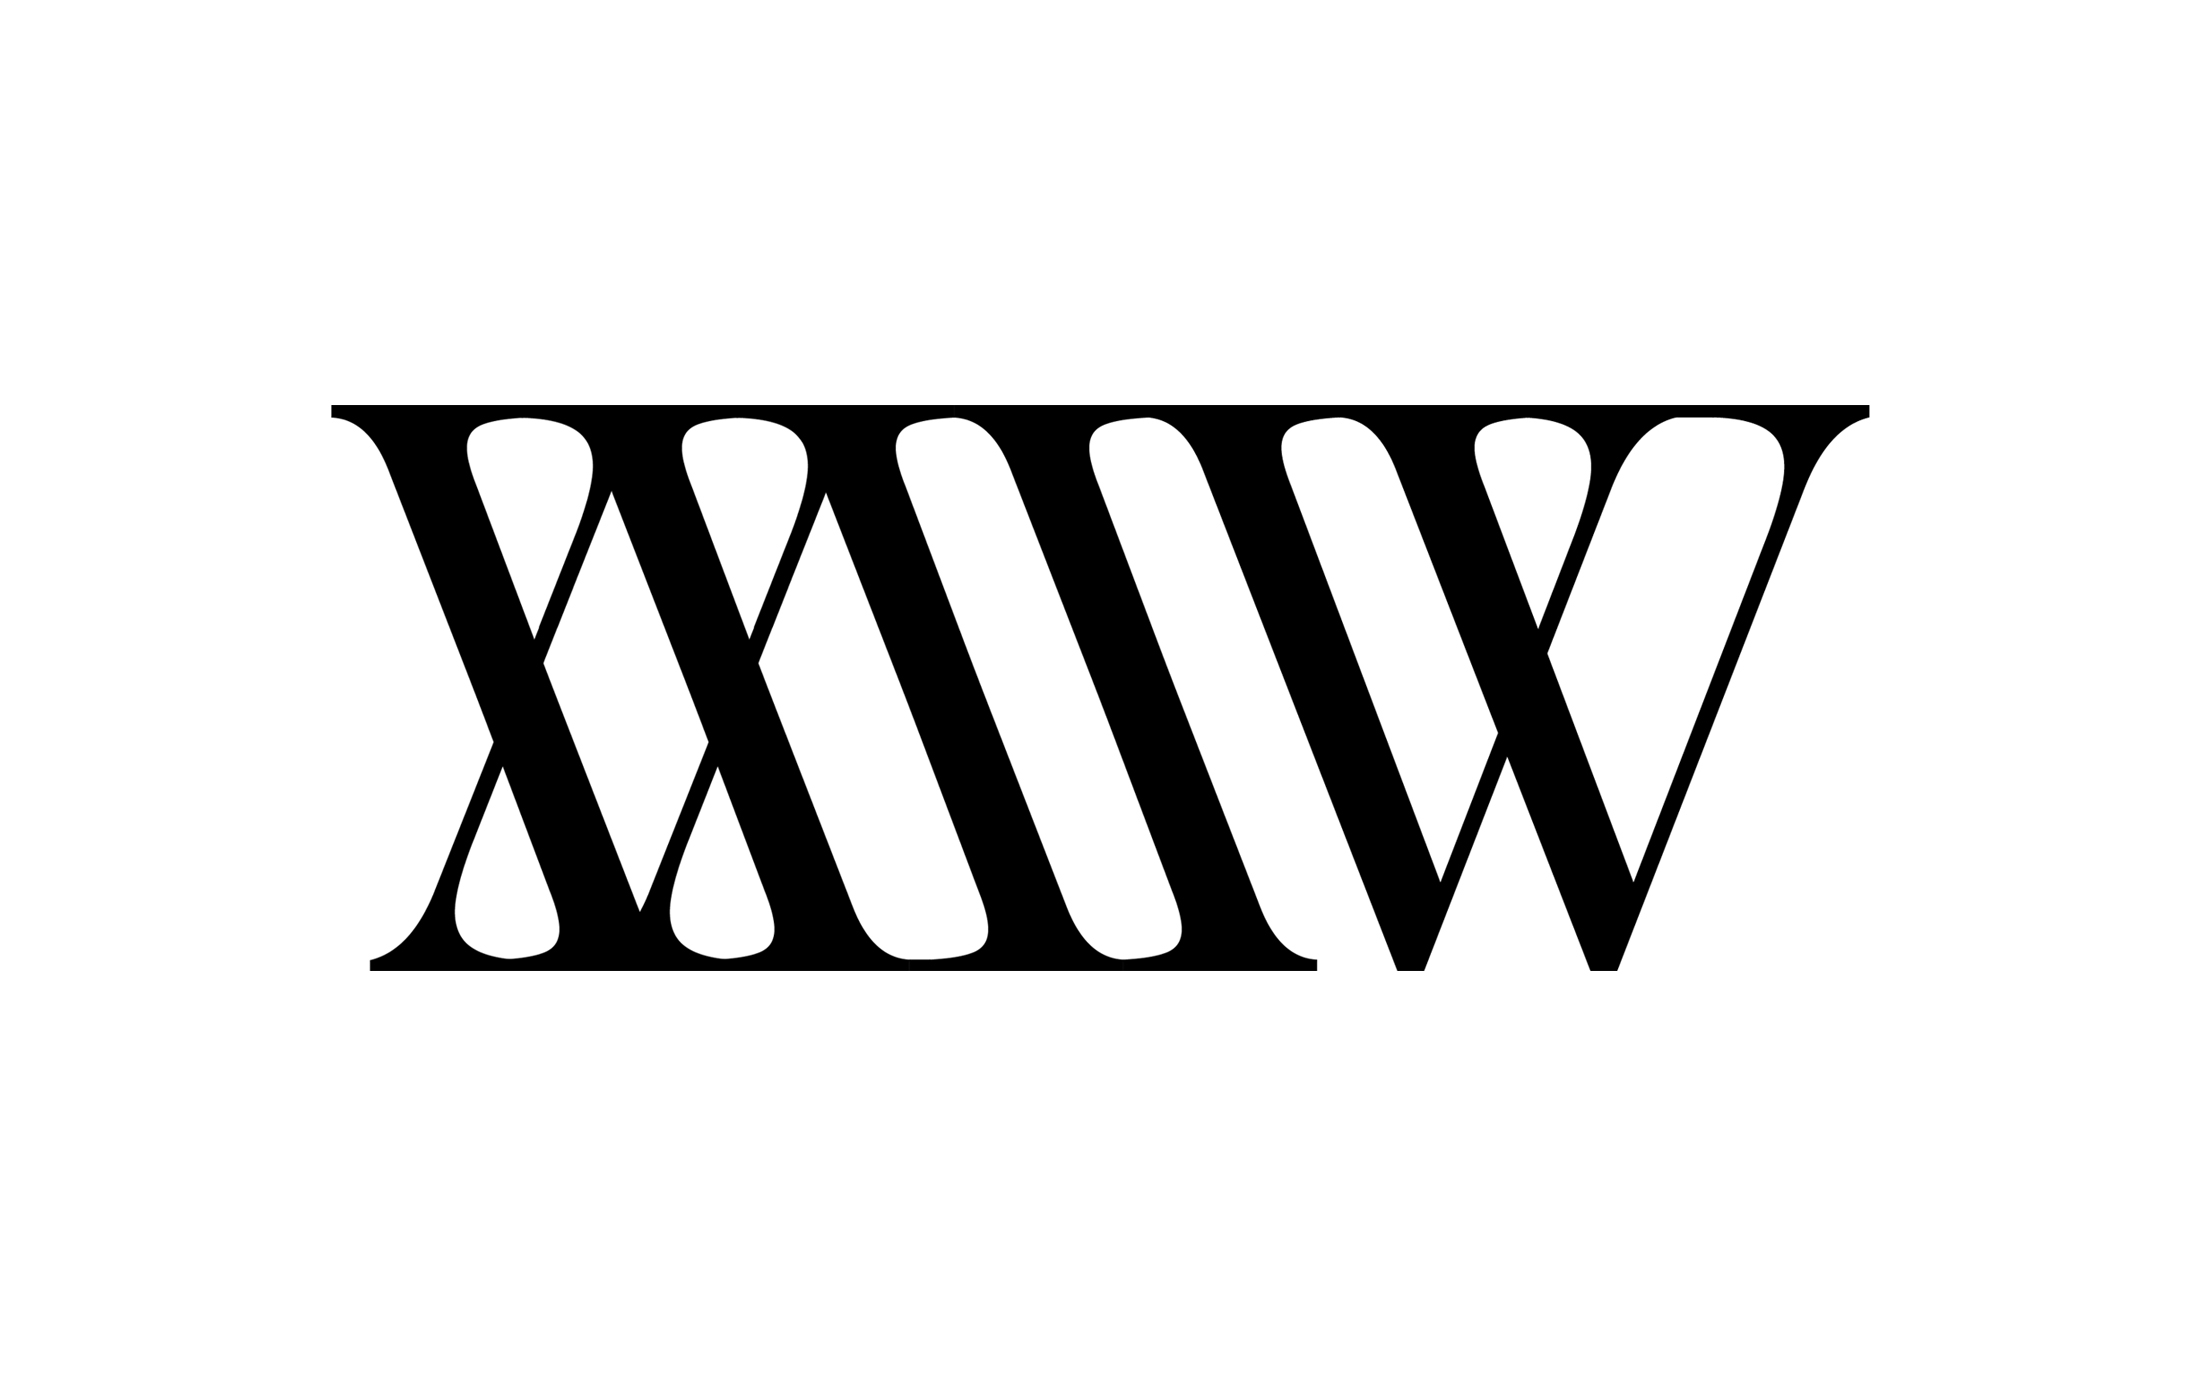
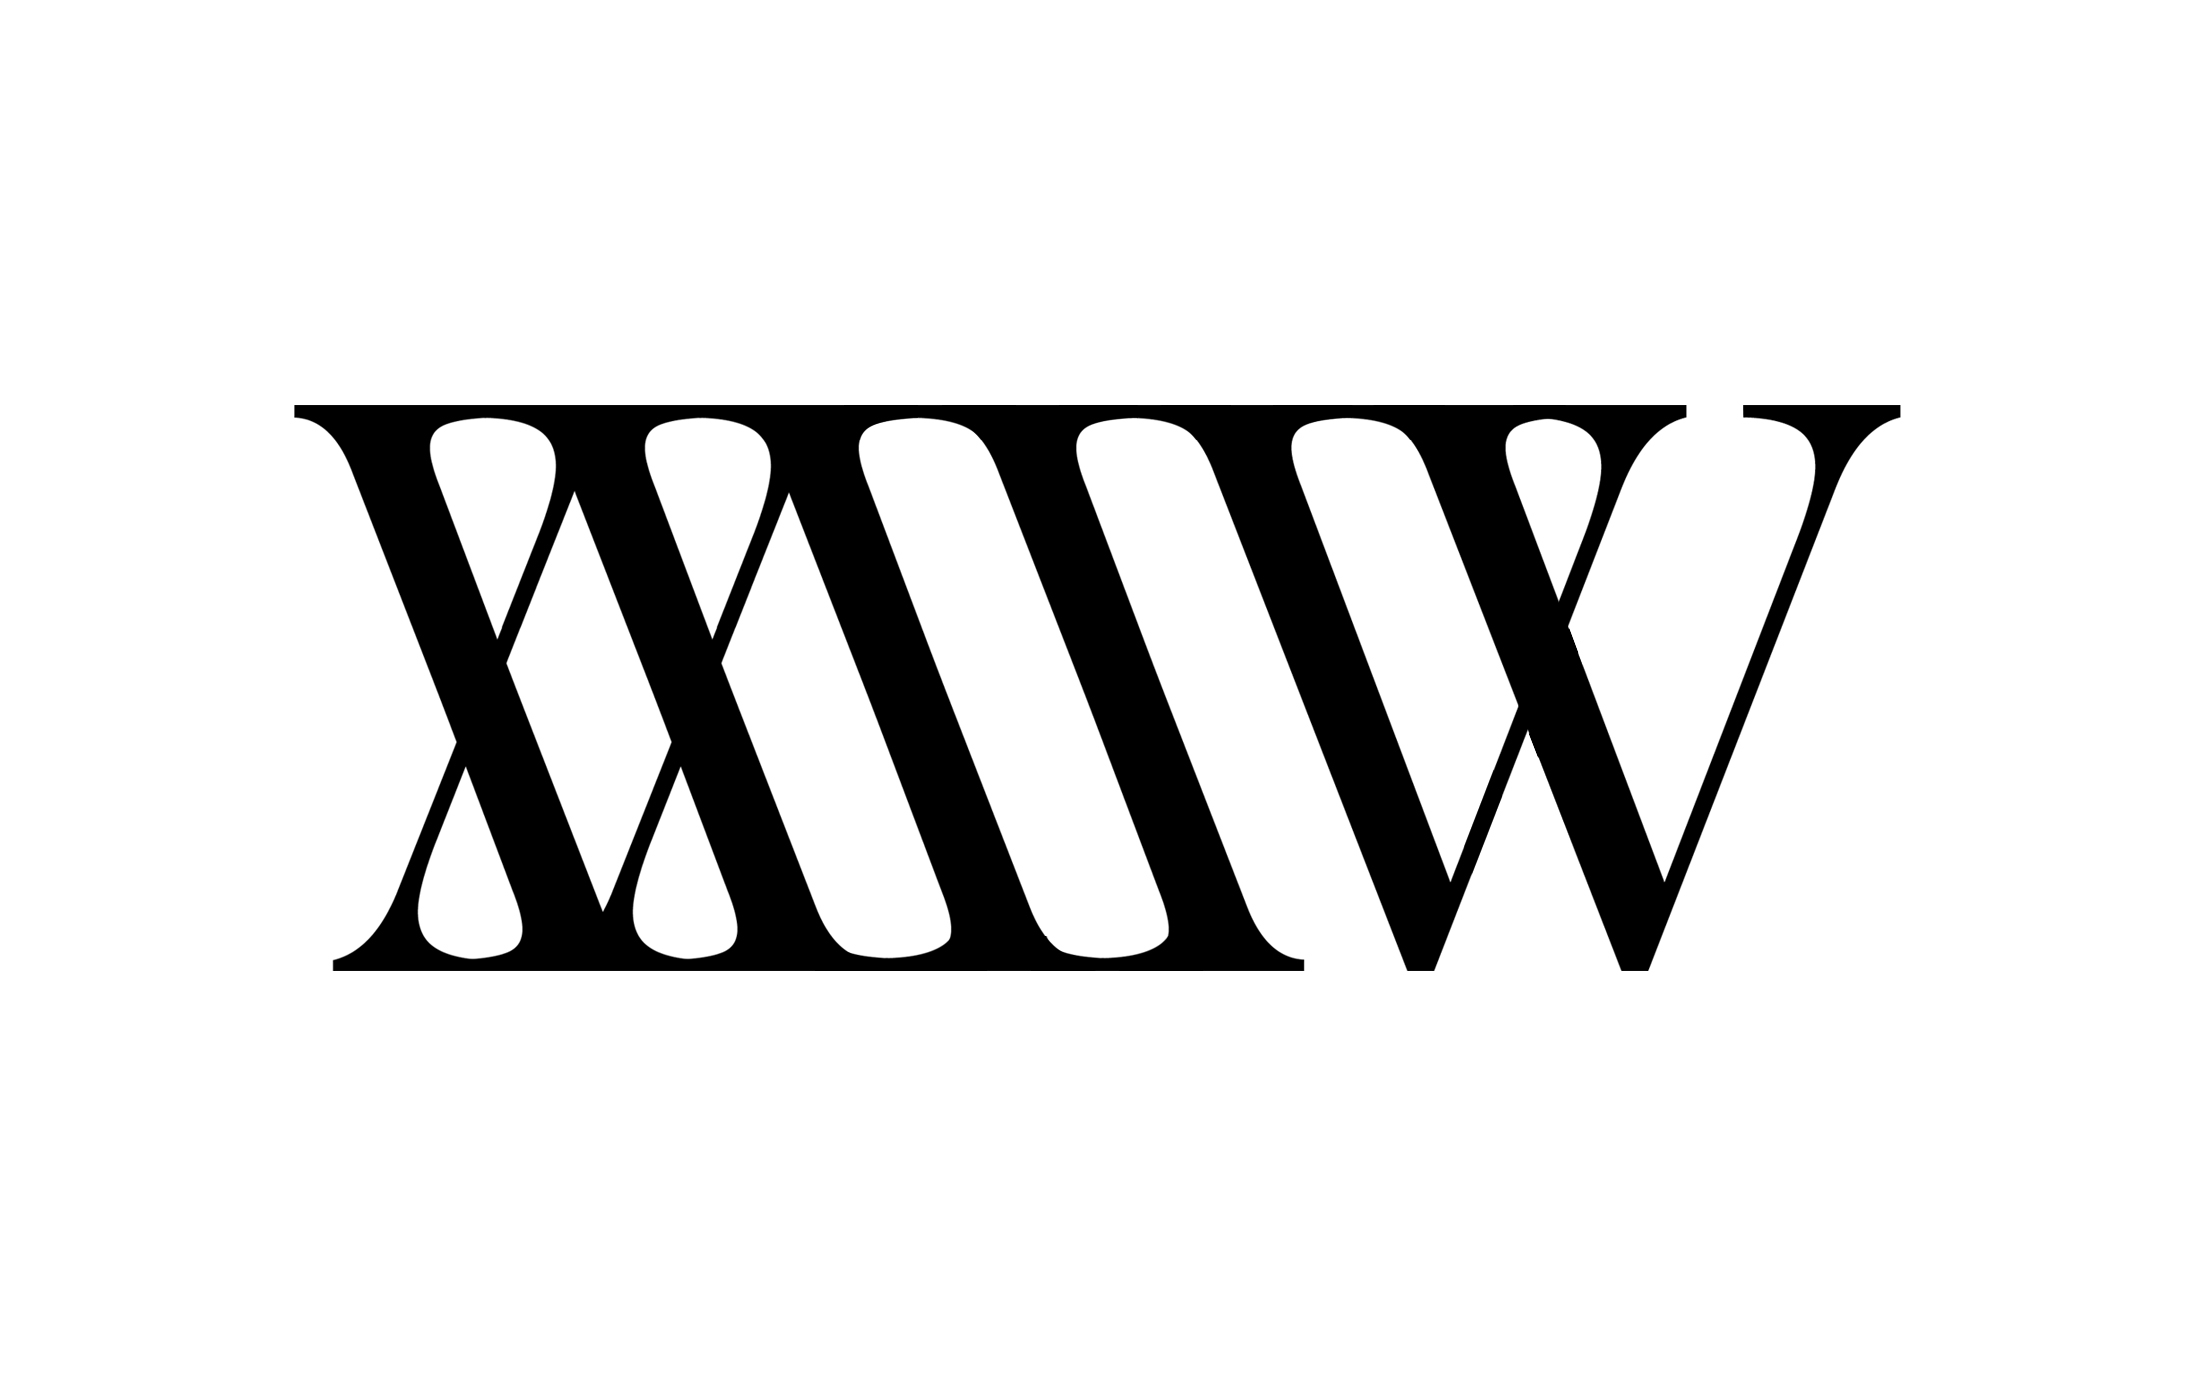
Fixed branding graphic

Changed region(s): [[0.1236, 0.2749, 0.5873, 0.7025], [0.5564, 0.2749, 0.8655, 0.7025], [0.7727, 0.2749, 0.8036, 0.3055]]

diff --git a/scripts/riven/nodes/assoc/content.analytics.js b/scripts/riven/nodes/assoc/content.analytics.js
@@ -113,20 +113,20 @@ RIVEN.lib.Analytics = function DefaultTemplate (id, rect, ...params) {
   function _style () {
     return `
     <style>
-      #view #core #content table.cells { background:transparent; width:100%; max-width: 730px; padding:0px; font-family: var(--font) }
-      #view #core #content table.cells tr td { margin:5px; height:100px; color:#000; position: relative; border-bottom:1.5px solid #333; width: calc(100% / 7); }
-      #view #core #content table.cells tr td:hover { border-bottom-color: #000 !important; cursor: pointer; }
-      #view #core #content table.cells tr td:hover span.date { color:#000; }
-      #view #core #content table.cells tr td.event { border-bottom-color:white !important;}
-      #view #core #content table.cells tr td.audio { border-bottom-color: var(--color_1) }
-      #view #core #content table.cells tr td.visual { border-bottom-color: var(--color_2) }
-      #view #core #content table.cells tr td.research { border-bottom-color: var(--color_3) }
-      #view #core #content table.cells tr td.disabled span.event { opacity:0.25; }
-      #view #core #content table.cells tr td.disabled span.task { opacity:0.25; }
-      #view #core #content table.cells tr td span.date { position: absolute; top:5px; left:0px; font-size:12px; font-family: var(--mono); color:#666; }
-      #view #core #content table.cells tr td span.event { position: absolute;top: 30px;left: 0px;font-size: 12px;font-family: var(--font_b);line-height: 15px; padding-right:10px; }
-      #view #core #content table.cells tr td span.task { position: absolute;top: 30px;left: 0px;font-size: 12px;font-family: var(--font_m);line-height: 15px; padding-right:10px; height:60px;overflow: hidden }
-      #view #core #content table.cells tr td span.task b { font-family: var(--font_b) }
+      #document #core #content table.cells { background:transparent; width:100%; max-width: 730px; padding:0px; font-family: var(--font) }
+      #document #core #content table.cells tr td { margin:5px; height:100px; color:#000; position: relative; border-bottom:1.5px solid #333; width: calc(100% / 7); }
+      #document #core #content table.cells tr td:hover { border-bottom-color: #000 !important; cursor: pointer; }
+      #document #core #content table.cells tr td:hover span.date { color:#000; }
+      #document #core #content table.cells tr td.event { border-bottom-color:white !important;}
+      #document #core #content table.cells tr td.audio { border-bottom-color: var(--color_1) }
+      #document #core #content table.cells tr td.visual { border-bottom-color: var(--color_2) }
+      #document #core #content table.cells tr td.research { border-bottom-color: var(--color_3) }
+      #document #core #content table.cells tr td.disabled span.event { opacity:0.25; }
+      #document #core #content table.cells tr td.disabled span.task { opacity:0.25; }
+      #document #core #content table.cells tr td span.date { position: absolute; top:5px; left:0px; font-size:12px; font-family: var(--mono); color:#666; }
+      #document #core #content table.cells tr td span.event { position: absolute;top: 30px;left: 0px;font-size: 12px;font-family: var(--font_b);line-height: 15px; padding-right:10px; }
+      #document #core #content table.cells tr td span.task { position: absolute;top: 30px;left: 0px;font-size: 12px;font-family: var(--font_m);line-height: 15px; padding-right:10px; height:60px;overflow: hidden }
+      #document #core #content table.cells tr td span.task b { font-family: var(--font_b) }
     </style>`
   }
 
@@ -149,10 +149,8 @@ RIVEN.lib.Analytics = function DefaultTemplate (id, rect, ...params) {
     return `<table class='cells' style='margin-top:30px'>${html}</table>${_style()}`
   }
 
-  function _timeline (logs) {
-    const events = logs.filter((log) => { return log.isEvent })
-
-    return `<ul class='tidy col3' style='margin-top:30px; padding-top:30px; border-top:1.5px solid #333'>${events.reduce((acc, log, id, arr) => {
+  function _timeline (events) {
+    return `<ul class='tidy ${events.length > 20 ? 'col3' : ''}' style='margin-top:30px; padding-top:30px; border-top:1.5px solid #333'>${events.reduce((acc, log, id, arr) => {
       return `
       ${acc}
       ${!arr[id - 1] || arr[id - 1].time.y !== log.time.y ? `<li class='head'>20${log.time.y}</li>` : ''}
@@ -164,7 +162,7 @@ RIVEN.lib.Analytics = function DefaultTemplate (id, rect, ...params) {
   }
 
   this._calendar = function (q) {
-    if (q.result.name != 'CALENDAR') { return '<p>The per-topic calendar is currently under development.</p>' }
+    if (q.result.name != 'CALENDAR') { return q.result ? `${_timeline(q.result.events)}` : '--' }
 
     const tasks = make_tasks(q.tables.issues)
     const upcomings = make_upcomings(q.tables.horaire)
@@ -181,17 +179,7 @@ RIVEN.lib.Analytics = function DefaultTemplate (id, rect, ...params) {
   // Journal
 
   this._journal = function (q, upcoming = false) {
-    const all_logs = q.target === 'journal' ? q.tables.horaire : q.result.logs
-
-    // Collect only the last 366 logs
-    const logs = []
-    for (const id in all_logs) {
-      const log = all_logs[id]
-      if (!log.term) { continue }
-      if (log.time.offset > 0 && !upcoming) { continue }
-      if (log.time.offset < -366) { continue }
-      logs[logs.length] = log
-    }
+    const logs = q.target === 'journal' ? q.tables.horaire : q.result.logs
 
     if (logs.length < 1) {
       return `<p>There is no recent activity to the {(${q.result.name.toCapitalCase()})} project.</p>`.toCurlic()
@@ -204,7 +192,7 @@ RIVEN.lib.Analytics = function DefaultTemplate (id, rect, ...params) {
     for (let id in logs) {
       if (i > 20) { break }
       const log = logs[id]
-      if (!log.photo && known.indexOf(log.term) > -1) { continue }
+      if (!log.photo && !log.isEvent && known.indexOf(log.term) > -1) { continue }
       html += `${log}`
       known.push(log.term)
       i += 1

diff --git a/links/main.css b/links/main.css
@@ -164,7 +164,7 @@ photo { display: block;background-position: center; background-size:cover; trans
 #document #core #content .entry.issue.misc b { background: white; }
 #document #core #content .entry.log { display: block;padding: 15px 0px 15px 70px;margin-bottom: 1px;vertical-align: top;position: relative;font-size: 14px;max-width: 660px;border-top: 1.5px solid #000;min-height: 50px }
 #document #core #content .entry.log svg:hover { opacity: 1.0}
-#document #core #content .entry.log svg.icon { cursor: pointer; background:black; width:50px; height:50px; border-radius:var(--rounded); display:inline-block; position:absolute; left:0px }
+#document #core #content .entry.log svg.icon { cursor: pointer; background:#000; width:50px; height:50px; border-radius:var(--rounded); display:inline-block; position:absolute; left:0px }
 #document #core #content .entry.log svg.icon path { fill:none; stroke-width:10;stroke:white }
 #document #core #content .entry.log .head { display: block; font-size:15px; line-height: 25px; }
 #document #core #content .entry.log .head .div.details {  }
@@ -174,6 +174,9 @@ photo { display: block;background-position: center; background-size:cover; trans
 #document #core #content .entry.log .head .bref a { font-family: var(--font_m); text-decoration: underline; }
 #document #core #content .entry.log .head .bref b { font-family: var(--font_b); font-weight: normal; }
 #document #core #content .entry.log img { max-width:700px; cursor: pointer; margin-top:15px; width:100% }
+#document #core #content .entry.log.event .bref { font-size:24px; line-height: 30px; }
+#document #core #content .entry.log.event svg.icon { background:white; }
+#document #core #content .entry.log.event svg.icon path { stroke:#000; }
 
 /* Navi */
 

diff --git a/scripts/riven/nodes/model/map.js b/scripts/riven/nodes/model/map.js
@@ -17,7 +17,7 @@ RIVEN.lib.Map = function MapNode (id, rect) {
 
   this.map = function (tables) {
     const time = performance.now()
-    const count = { links: 0, diaries: 0 }
+    const count = { links: 0, diaries: 0, events: 0 }
 
     // Connect Parents
     for (const id in tables.lexicon) {
@@ -64,6 +64,10 @@ RIVEN.lib.Map = function MapNode (id, rect) {
           tables.lexicon[index].span.to = `${log.time}`
         }
       }
+      if (log.isEvent) {
+        tables.lexicon[index].events.push(log)
+        count.events += 1
+      }
       if (!log.photo) { continue }
       if (!log.name) { console.warn(`Missing caption: ${log.photo}`) }
       tables.lexicon[index].diaries.push(log)
@@ -90,6 +94,6 @@ RIVEN.lib.Map = function MapNode (id, rect) {
       issue.host = tables.lexicon[index]
     }
     this.is_mapped = true
-    console.info(this.id, `Mapped ${tables.horaire.length} logs, ${count.links} links, ${tables.issues.length} issues, and ${count.diaries} diaries to ${Object.keys(tables.lexicon).length} terms, in ${(performance.now() - time).toFixed(2)}ms.`)
+    console.info(this.id, `Mapped ${tables.horaire.length} logs, ${count.links} links, ${tables.issues.length} issues, ${count.events} events , and ${count.diaries} diaries to ${Object.keys(tables.lexicon).length} terms, in ${(performance.now() - time).toFixed(2)}ms.`)
   }
 }

diff --git a/scripts/types/log.js b/scripts/types/log.js
@@ -30,11 +30,11 @@ function Log (data = { code: '-400' }) {
 
   this.body = function () {
     return `
-    <div class='entry log'>
+    <div class='entry log ${this.isEvent ? 'event' : ''}'>
       <svg data-goto='${this.term}' class='icon'><path transform="scale(0.15,0.15) translate(20,20)" d="${this.host ? this.host.glyph() : ''}"></path></svg>
       <div class='head'>
-        <div class='details'><a class='topic' data-goto='${this.term}'>${this.term}</a> ${this.name ? ` — <span class='name' data-goto='${this.name}'>${this.name}</span>` : ''} <span class='time' data-goto='${this.term}:Journal'>${timeAgo(this.time, 14)}</span></div>
-        <div class='bref'>${this.host ? this.host.bref.toCurlic() : ''}</div>
+        <div class='details'><a class='topic' data-goto='${this.term}' href='${this.term.toUrl()}'>${this.term}</a> ${this.name && !this.isEvent ? ` — <span class='name' data-goto='${this.name}'>${this.name}</span>` : ''} <span class='time' data-goto='${this.term}:Journal'>${timeAgo(this.time, 14)}</span></div>
+        <div class='bref'>${this.isEvent ? this.name : this.host ? this.host.bref.toCurlic() : ''}</div>
       </div>
       ${this.photo ? `<img src='media/diary/${this.photo}.jpg' data-goto='${this.term}'/>` : ''}
     </div>`

diff --git a/scripts/riven/nodes/assoc/build.header.js b/scripts/riven/nodes/assoc/build.header.js
@@ -28,7 +28,7 @@ RIVEN.lib.Header = function BuildHeaderNode (id, rect) {
     }
 
     return `
-    ${q.result.issues.length > 0 ? `<li><a class='calendar' data-view='calendar' href='#${q.result.name.toUrl()}:calendar'>Calendar</a></li>` : ''}
+    ${q.result.events.length > 1 ? `<li><a class='calendar' data-view='calendar' href='#${q.result.name.toUrl()}:calendar'>${q.result.events.length} Events</a></li>` : ''}
     ${q.result.logs.length > 2 && !q.result.hasTag('journal') ? `<li><a class='journal' data-view='journal' href='#${q.result.name.toUrl()}:journal'>${q.result.logs.length} Logs</a></li>` : ''}
     ${q.result.issues.length > 1 && !q.result.hasTag('diary') ? `<li><a class='tracker' data-view='tracker' href='#${q.result.name.toUrl()}:tracker'>${q.result.issues.length} Issues</a></li>` : ''}
     `

diff --git a/scripts/viz/viz.js b/scripts/viz/viz.js
@@ -67,7 +67,7 @@ function Viz (logs, from, to) {
   }
 
   this.toString = function () {
-    if (this.logs.length < 1) { return '<p>Not enough data to display the infographic.</p>' }
+    if (this.logs.length < 1) { return '' }
 
     const data = { recent: [], before: [] }
     // Split the last 14 days

diff --git a/scripts/types/entry.js b/scripts/types/entry.js
@@ -14,6 +14,7 @@ function Entry (name, data) {
   this.issues = []
   this.logs = []
   this.diaries = []
+  this.events = []
   this.tags = []
 
   this.glyph = function () {
